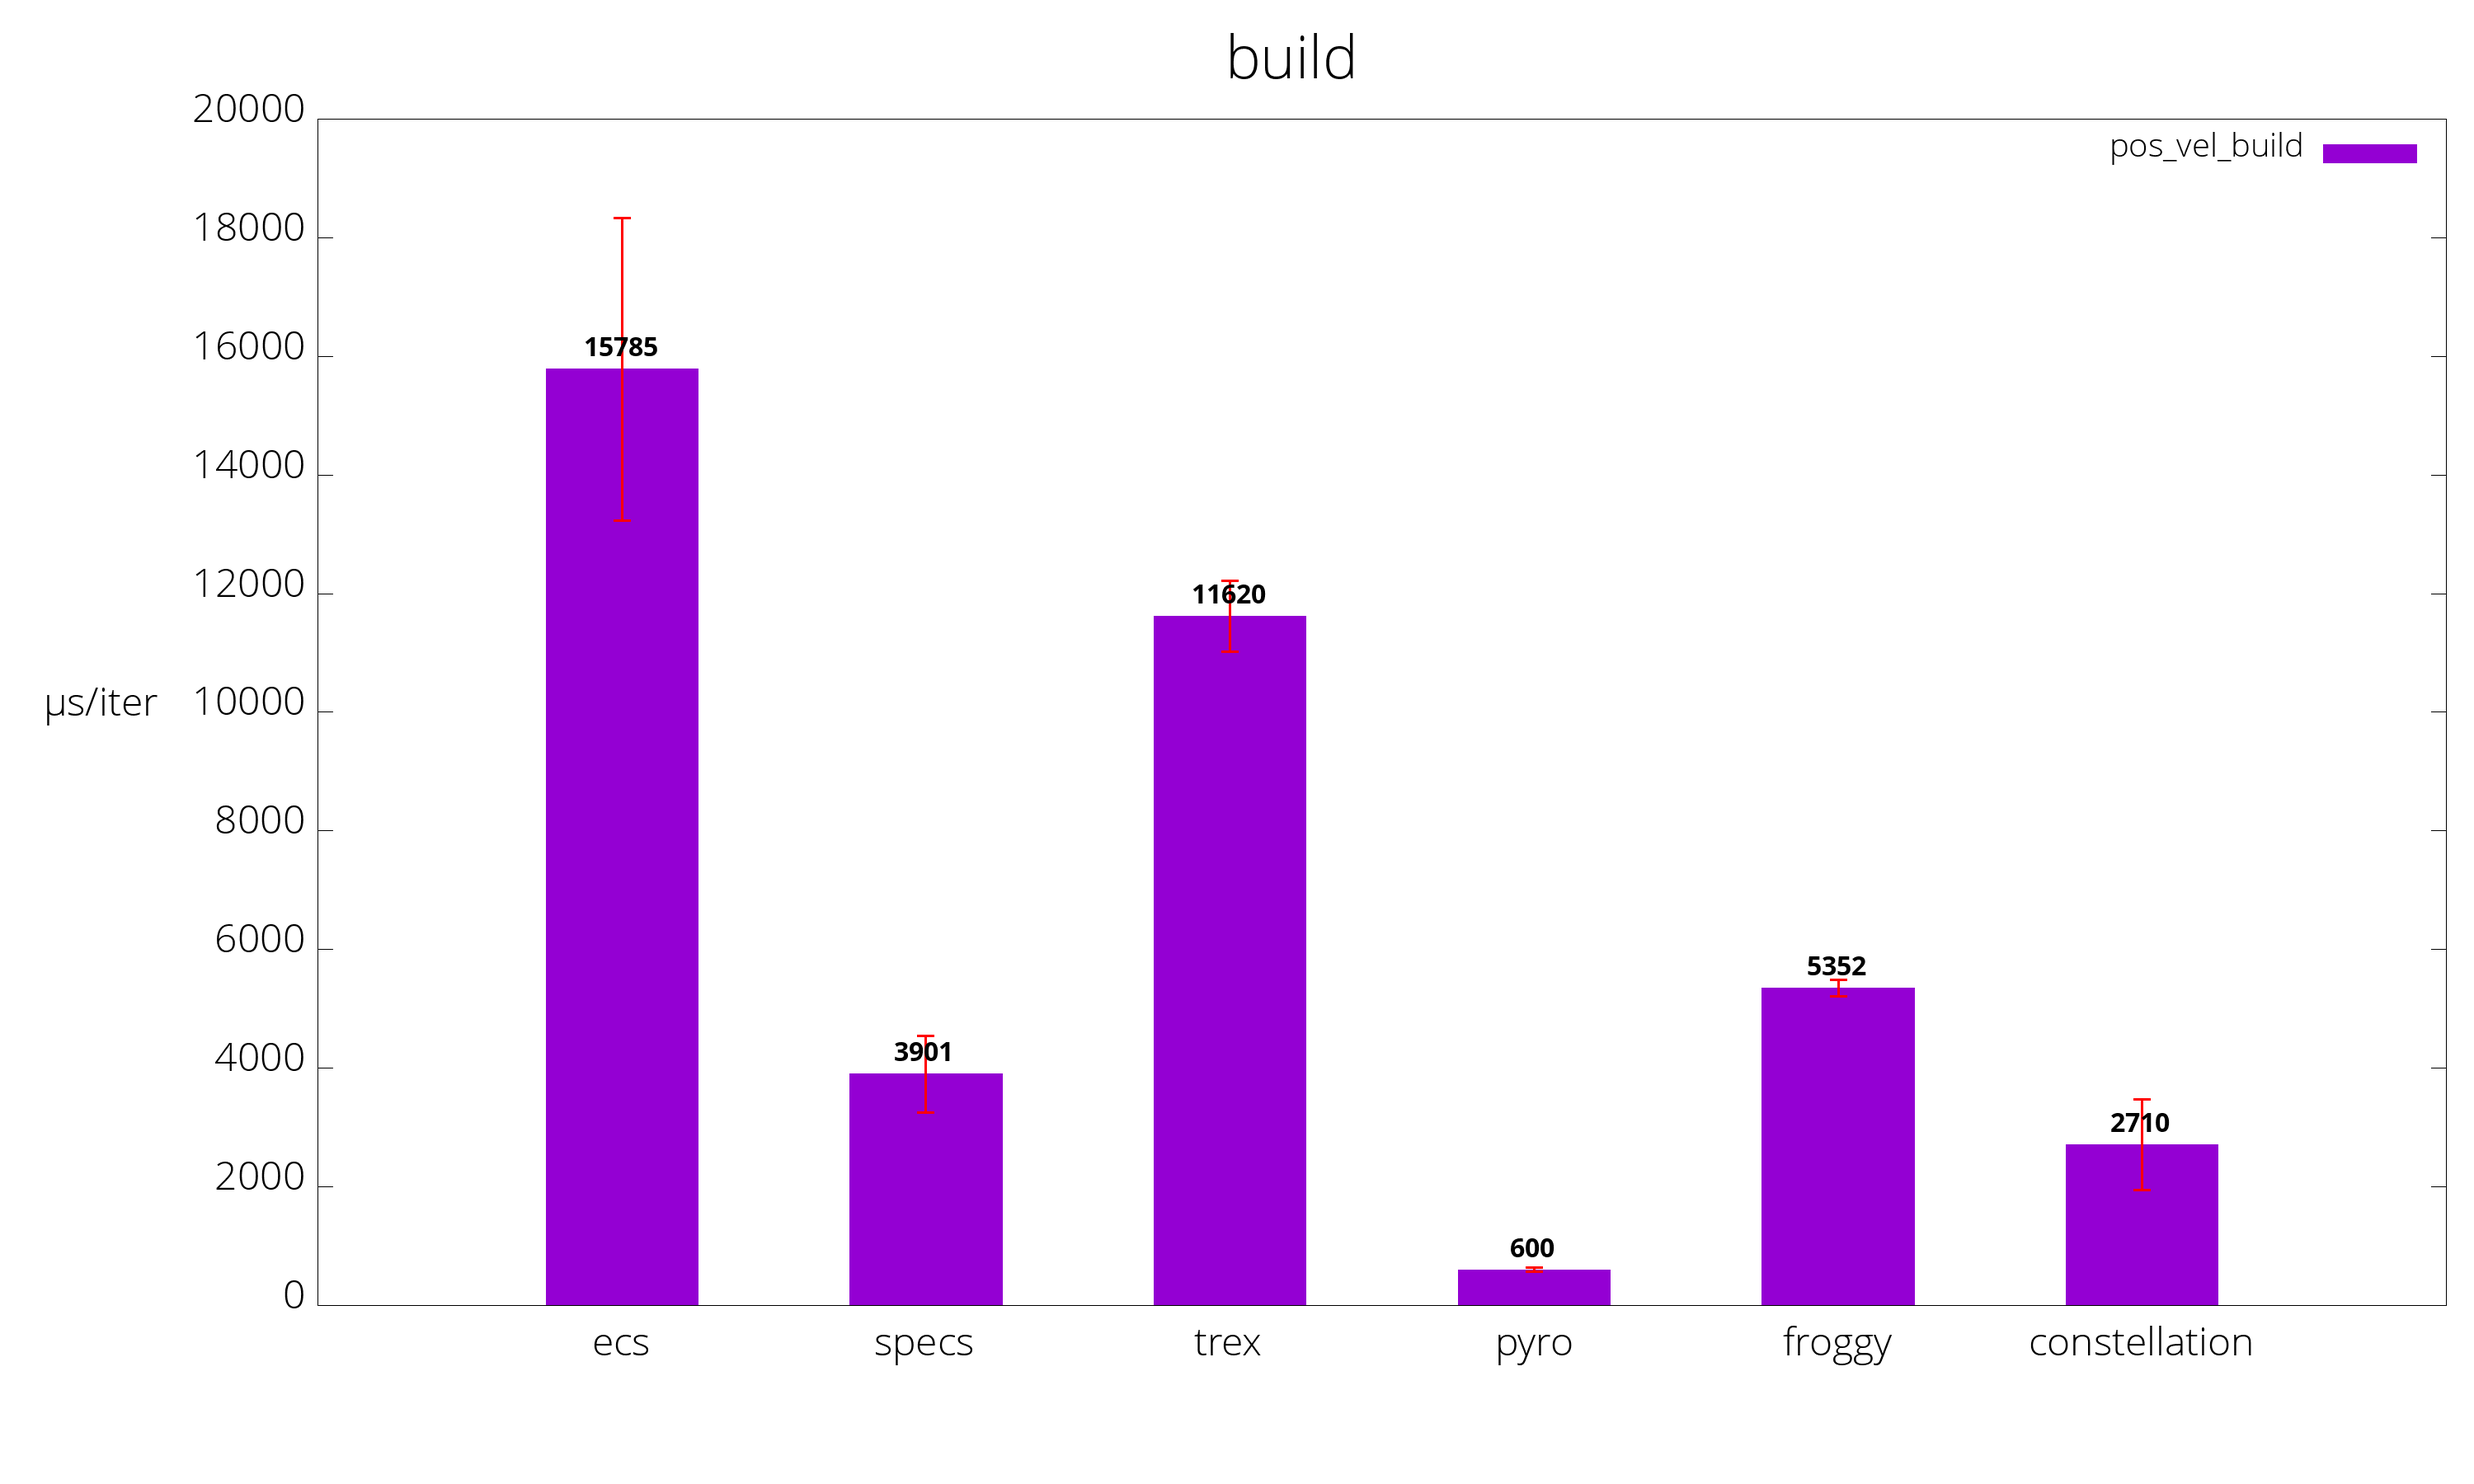
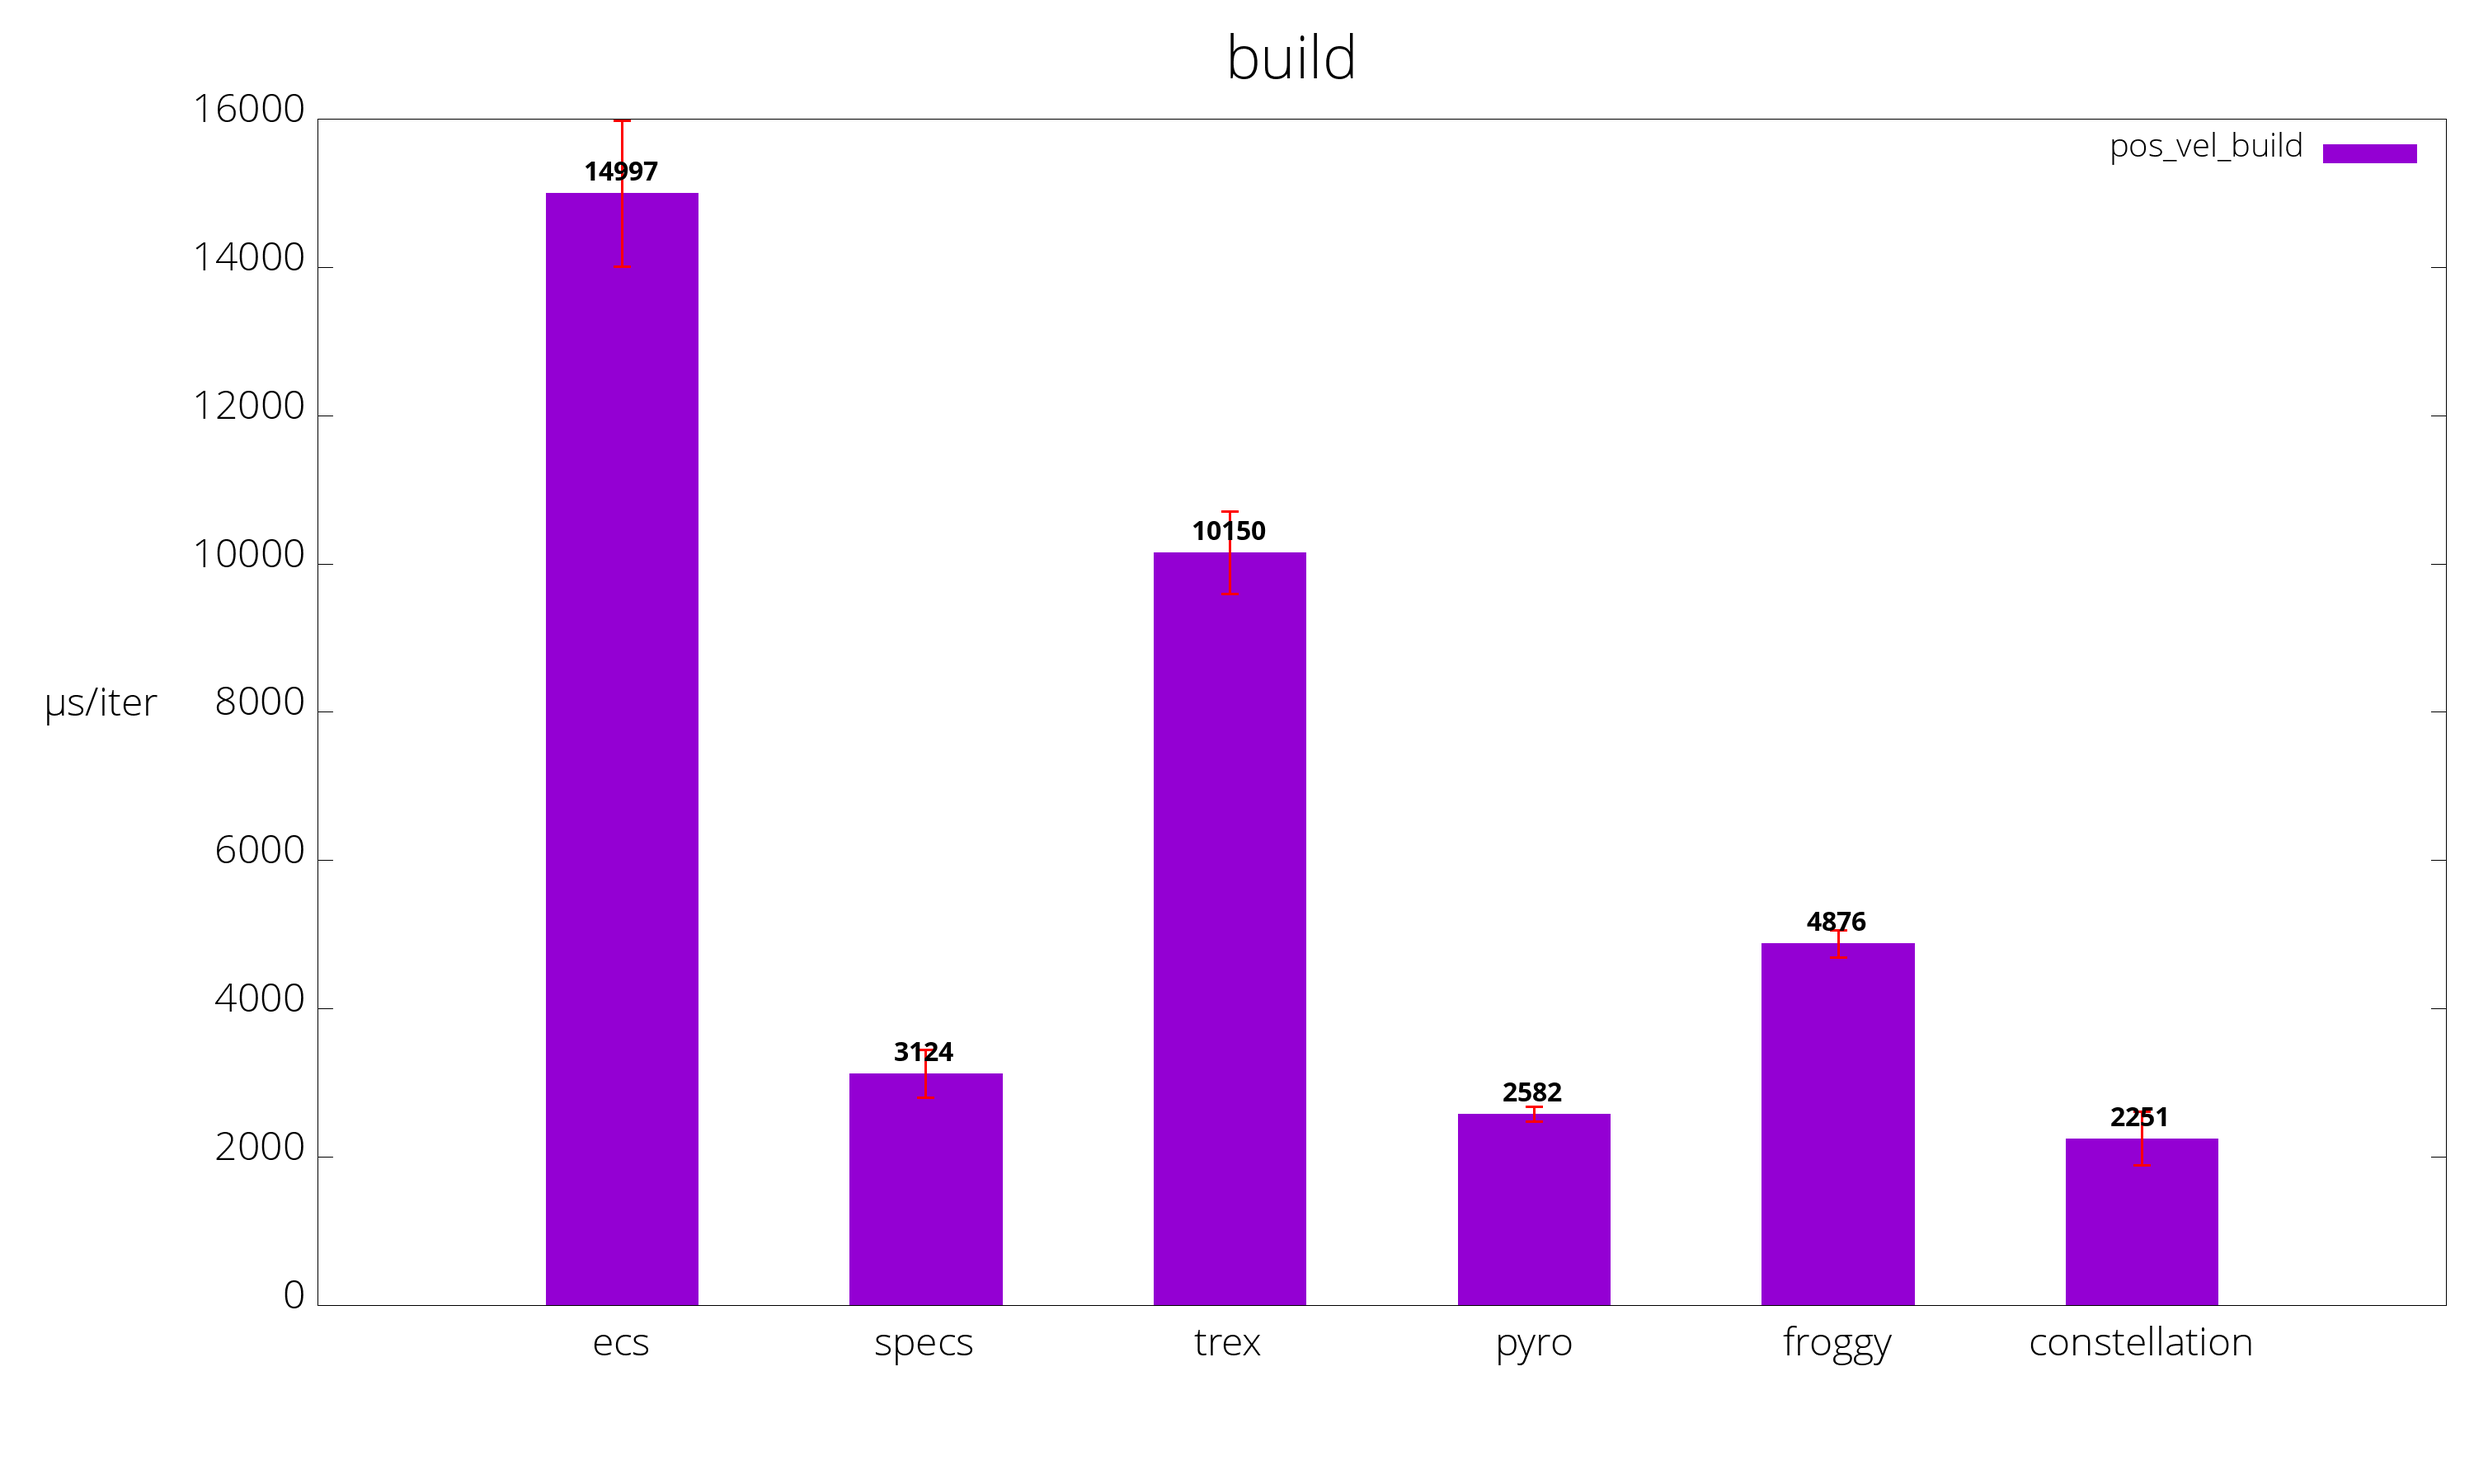
Update

diff --git a/README.md b/README.md
@@ -8,11 +8,11 @@ Benchmarks are located in `benches/[bench_name]_[ecs_crate_name].rs`.
  Library         | pos_vel build                 | pos_vel update                 | parallel build                 | parallel update
  --------------- |:-----------------------------:|:------------------------------:|:------------------------------:|:--------------------------------:
  [calx-ecs]      | {pos_vel_build_calx_ecs}      | {pos_vel_update_calx_ecs}      | {parallel_build_calx_ecs}      | {parallel_update_calx_ecs}
- [constellation] | 2,710 µs/iter (+/- 765) | 81 µs/iter (+/- 7) | {parallel_build_constellation} | {parallel_update_constellation}
- [ecs]           | 15,785 µs/iter (+/- 2,554)           | 2,354 µs/iter (+/- 15)           | {parallel_build_ecs}           | {parallel_update_ecs}
- [froggy]        | 5,352 µs/iter (+/- 137)        | 75 µs/iter (+/- 0)        | {parallel_build_froggy}        | {parallel_update_froggy}
- [specs]         | 3,901 µs/iter (+/- 645)         | 47 µs/iter (+/- 2)         | {parallel_build_specs}         | {parallel_update_specs}
- [trex]          | 11,620 µs/iter (+/- 594)          | 1,705 µs/iter (+/- 31)          | {parallel_build_trex}          | {parallel_update_trex}
+ [constellation] | 2,251 µs/iter (+/- 361) | 71 µs/iter (+/- 1) | {parallel_build_constellation} | {parallel_update_constellation}
+ [ecs]           | 14,997 µs/iter (+/- 986)           | 2,070 µs/iter (+/- 38)           | {parallel_build_ecs}           | {parallel_update_ecs}
+ [froggy]        | 4,876 µs/iter (+/- 183)        | 66 µs/iter (+/- 2)        | {parallel_build_froggy}        | {parallel_update_froggy}
+ [specs]         | 3,124 µs/iter (+/- 318)         | 43 µs/iter (+/- 0)         | {parallel_build_specs}         | {parallel_update_specs}
+ [trex]          | 10,150 µs/iter (+/- 559)          | 1,541 µs/iter (+/- 39)          | {parallel_build_trex}          | {parallel_update_trex}
 
 [calx-ecs]: https://github.com/rsaarelm/calx-ecs
 [constellation]: https://github.com/TomGillen/constellation/
